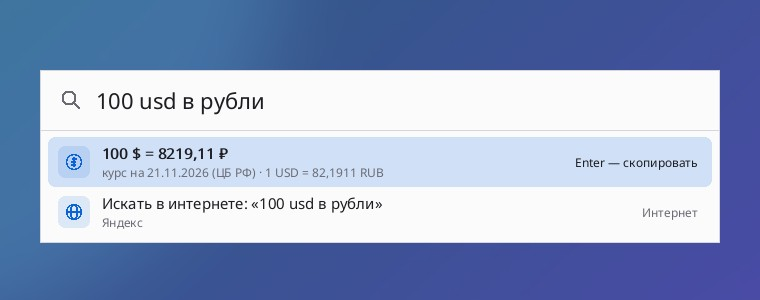
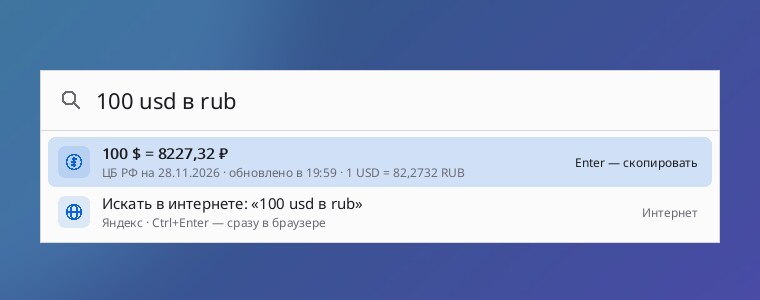
SpotDesk 1.2.0: ответы из интернета в окне, быстрый набор, курсы с временем проверки

diff --git a/docs/index.html b/docs/index.html
@@ -102,12 +102,13 @@ footer{padding:36px 0 50px;color:var(--sub);font-size:14.5px;text-align:center;b
       <div class="card"><div class="ic">🔎</div><h3>Программы</h3><p>Меню «Пуск», рабочий стол и приложения Microsoft Store. Нечёткий поиск: «vsc» найдёт Visual Studio Code. Частые — выше.</p></div>
       <div class="card"><div class="ic">📁</div><h3>Файлы и папки</h3><p>Свой индекс имён, как в Everything: строится в фоне с низким приоритетом и обновляется сам. По желанию — весь диск NTFS за секунды.</p></div>
       <div class="card"><div class="ic">🧮</div><h3>Калькулятор</h3><p>«2+2*2», «sqrt 16», «2^10», «15% от 3000» — ответ первой строкой, Enter копирует его в буфер.</p></div>
-      <div class="card"><div class="ic">💱</div><h3>Курсы валют</h3><p>«100 usd в rub», «50 евро в рублях», «курс юаня» — по официальному курсу ЦБ РФ на сегодня. В сеть — только когда нужно.</p></div>
+      <div class="card"><div class="ic">💱</div><h3>Курсы валют</h3><p>«100 usd в rub», «50 евро в рублях», «курс юаня» — по официальному курсу ЦБ РФ на сегодня, с датой и временем проверки. Обновляется сам, когда курсу больше часа.</p></div>
       <div class="card"><div class="ic">📏</div><h3>Единицы измерения</h3><p>«5 км в милях», «30c to f», «10 фунтов в кг», «1 гб в мб», «100 км/ч», «10 соток в м2» — без интернета.</p></div>
       <div class="card"><div class="ic">🕒</div><h3>Даты и время</h3><p>«время в токио», «дней до нового года», «через 100 дней», «сегодня». Больше 70 городов по часовым поясам Windows.</p></div>
       <div class="card"><div class="ic">⏻</div><h3>Команды</h3><p>«блокировка», «сон», «перезагрузка», «выключить», «очистить корзину». Опасные — только после второго Enter.</p></div>
       <div class="card"><div class="ic">⚙</div><h3>Параметры Windows</h3><p>«bluetooth», «экран», «wi-fi», «звук», «обновления», «автозагрузка» — сразу нужная страница.</p></div>
       <div class="card"><div class="ic">⌨</div><h3>С клавиатуры</h3><p>↑↓ — выбор, Enter — открыть, Ctrl+Enter — показать в папке, Shift+Enter — от администратора, Tab — дополнить.</p></div>
+      <div class="card"><div class="ic">💬</div><h3>Ответы из интернета в окне</h3><p>Enter на «Искать в интернете» — быстрый ответ и ссылки прямо в окне, без браузера (DuckDuckGo и Википедия). Пока вы печатаете, в сеть ничего не уходит.</p></div>
       <div class="card"><div class="ic">🌐</div><h3>Поиск в интернете</h3><p>Не нашлось на компьютере — последняя строка ищет в Яндексе, Google, DuckDuckGo или Bing. Префиксы: «g …», «я …», «yt …», «вики …».</p></div>
       <div class="card"><div class="ic">⚡</div><h3>Лёгкая</h3><p>Панель появляется мгновенно, а в простое не тратит процессор: ни опросов, ни хуков клавиатуры.</p></div>
       <div class="card"><div class="ic">🎛</div><h3>Всё отключается</h3><p>У каждой функции свой переключатель, горячая клавиша меняется. Если Alt+Space занято — SpotDesk предупредит.</p></div>
@@ -116,10 +117,12 @@ footer{padding:36px 0 50px;color:var(--sub);font-size:14.5px;text-align:center;b
   </section>
 
   <section id="shots">
-    <h2>Как это выглядит</h2><p class="sub">Настоящие снимки SpotDesk 1.1.0</p>
+    <h2>Как это выглядит</h2><p class="sub">Настоящие снимки SpotDesk 1.2.0</p>
     <div class="gal">
       <figure><img src="assets/media/bar-dark.jpg" alt="Тёмная тема: папки, файлы и программы" width="760" height="560" loading="lazy"><figcaption>Программы, папки и файлы в одном списке</figcaption></figure>
       <figure><img src="assets/media/files.jpg" alt="Поиск файлов" width="760" height="380" loading="lazy"><figcaption>Файлы — по имени, как в Everything</figcaption></figure>
+      <figure><img src="assets/media/web-answer.jpg" alt="Ответ из интернета прямо в окне" width="760" height="560" loading="lazy"><figcaption>Ответ из интернета прямо в окне</figcaption></figure>
+      <figure><img src="assets/media/web-results.jpg" alt="Ссылки из интернета в окне" width="760" height="560" loading="lazy"><figcaption>Ссылки — без браузера, Enter открывает</figcaption></figure>
       <figure><img src="assets/media/calc.jpg" alt="Калькулятор" width="760" height="300" loading="lazy"><figcaption>Калькулятор: ответ первой строкой</figcaption></figure>
       <figure><img src="assets/media/currency.jpg" alt="Курс валют" width="760" height="300" loading="lazy"><figcaption>Курсы валют ЦБ РФ на сегодня</figcaption></figure>
       <figure><img src="assets/media/units.jpg" alt="Перевод единиц" width="760" height="300" loading="lazy"><figcaption>Единицы: «5 км в милях»</figcaption></figure>

diff --git a/release-notes/v1.2.0.md b/release-notes/v1.2.0.md
@@ -1,0 +1,27 @@
+## 🔎 SpotDesk для Windows 1.2.0
+
+**Скачать:** `SpotDesk-1.2.0-win64.zip` ниже (или постоянная ссылка `SpotDesk-win64.zip`). Распакуйте и запустите `SpotDesk.exe`. Если SpotDesk уже установлен, он сам предложит обновиться.
+
+### Что нового
+- Ответы из интернета прямо в окне: нажмите Enter на «Искать в интернете» — короткий ответ и ссылки появятся без браузера
+- Буквы снова появляются сразу: поиск по большому числу файлов больше не тормозит набор
+- Курсы валют обновляются сами, а в строке видно, когда курс проверен
+- Окно всегда ровно по высоте списка — больше нет пустой чёрной полосы внизу
+- Пока вы печатаете, в интернет ничего не уходит — запрос отправляется только по Enter
+- Ctrl+Enter на «Искать в интернете» — сразу в браузер, как раньше
+
+### Подробнее
+- **Ответы в окне.** Сверху — быстрый ответ (короткая справка, обычно из Википедии), ниже — до 10 ссылок с названием, сайтом и кусочком текста. Стрелки — выбор, Enter или щелчок — открыть ссылку в браузере, Ctrl+C — скопировать ссылку, Esc — закрыть. Последняя строка «Открыть всю выдачу в браузере» открывает поисковик из настроек (Яндекс, Google, DuckDuckGo или Bing). Работает и с быстрым поиском «? …», «g …», «я …».
+- **Откуда ответы.** Ссылки — из DuckDuckGo, быстрый ответ — из DuckDuckGo и Википедии. Ключей и учётных записей не нужно. Яндекс и Google не дают показывать свою выдачу в чужих программах, поэтому в окне — DuckDuckGo, а полная выдача по-прежнему открывается в вашем поисковике. Если DuckDuckGo попросит подтвердить «вы не робот», нет интернета или ответа нет дольше 6 секунд, SpotDesk так и напишет и покажет статьи Википедии и строку для браузера.
+- **Приватность.** Пока вы печатаете, SpotDesk ничего никуда не отправляет. Запрос уходит только когда вы сами нажали Enter, и только в DuckDuckGo и Википедию. История и ссылки нигде не сохраняются. Выключить: «Настройки → Поиск → Ответы из интернета прямо в окне» — тогда Enter, как раньше, сразу открывает браузер.
+- **Скорость набора.** Раньше при большом индексе файлов (сотни тысяч файлов) каждая буква ждала, пока программа переберёт весь список, — до 0,15–0,2 с на букву. Теперь файлы ищутся в фоне, а буква появляется сразу (около 0,01 с). Быстро набранные буквы обрабатываются вместе, а не по одной.
+- **Курсы валют.** Раньше курс брался из кэша до 4 часов и проверялся, только когда вы пересчитывали валюту, а если загрузка не удавалась, об этом нигде не было видно. Теперь, когда вы открываете панель и курсу больше часа, SpotDesk тихо проверяет новый. В строке ответа написано «ЦБ РФ на 28.11.2026 · обновлено в 19:59», а если обновить не удалось — так и написано. ЦБ РФ сам меняет курс один раз в день. В простое SpotDesk в сеть не ходит.
+- **Высота окна.** Когда список становился короче, окно иногда не уменьшалось и внизу оставалась пустая чёрная область. Теперь размер окна и картинка обновляются вместе на каждое изменение, а при появлении нет пустого серого кадра.
+
+### Если Windows предупреждает
+SmartScreen может показать «Система Windows защитила ваш компьютер» — нажмите «Подробнее» → «Выполнить в любом случае».
+
+**Требования:** Windows 10 или 11, 64-бит.
+
+<!-- publish_release.sh сам допишет строку «SHA256 (SpotDesk-1.2.0-win64.zip): …» — её читает автообновление. -->
+<!-- Первые пункты «Что нового» показываются в окне обновления (до 6 пунктов). -->
